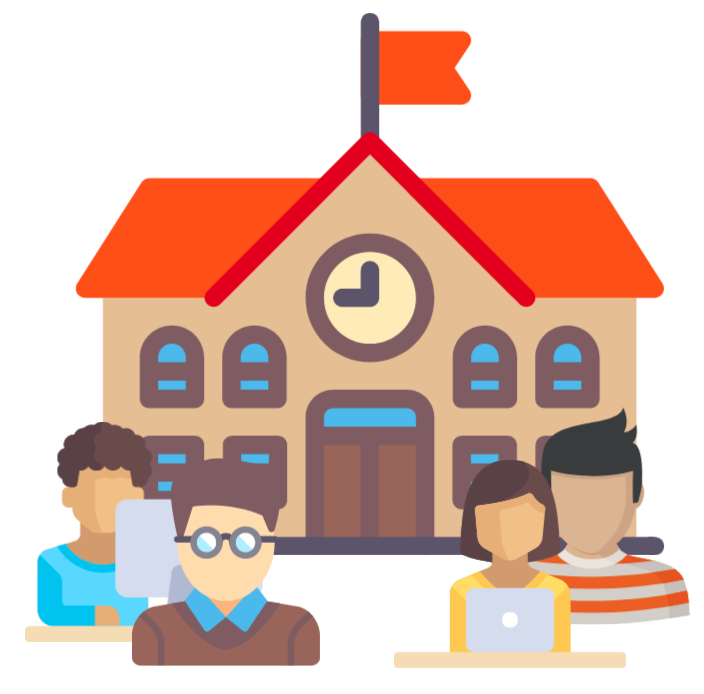
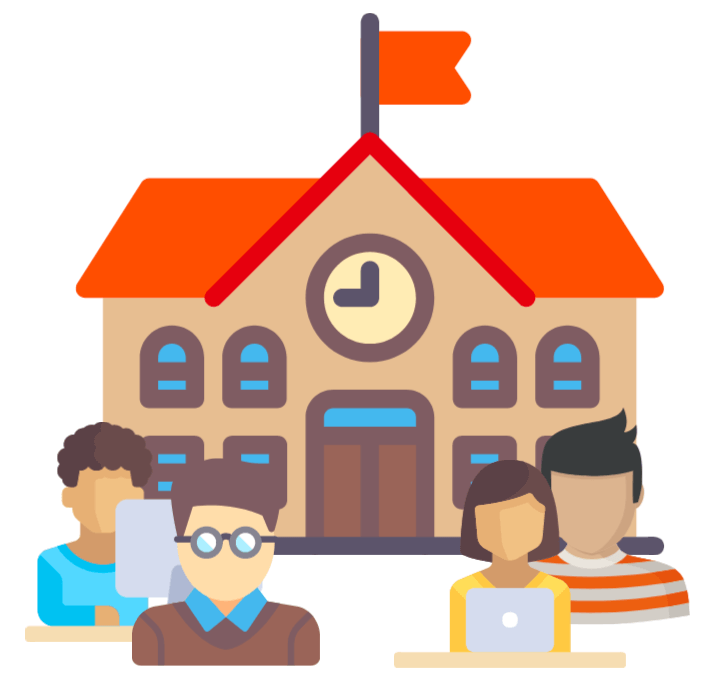
revised image size to improve resolution and responsiveness

Changed region(s): [[0.5938, 0.2421, 0.9375, 0.4539], [0.0938, 0.2421, 0.4688, 0.4539], [0.5312, 0.0303, 0.6875, 0.1513]]

diff --git a/app/assets/stylesheets/groups.scss b/app/assets/stylesheets/groups.scss
@@ -25,9 +25,19 @@
   min-width: 100%;
 }
 
-#group-image {
+#group-image {  
   min-width: 100%;
-  min-height: 100%;
+  height: 100%;
+}
+
+img#group-image.img-height {
+  height: 250px;
+  width: 100%;
+}
+
+#img-holder {
+  height: 250px;
+  text-align: center;
 }
 
 div.card.groups {  
@@ -39,7 +49,7 @@ div.card.groups {
 }
 
 #edit-img {
-  box-shadow: rgba(0, 0, 0, 0.12) 5px 5px 5px;
+  box-shadow: 0 3px 3px 0 rgba(0, 0, 0, 0.14), 0 1px 7px 0 rgba(0, 0, 0, 0.12), 0 3px 1px -1px rgba(0, 0, 0, 0.2);
   margin: -50px auto 0px 70px;
   border: 1px #eee solid;
 }

diff --git a/app/assets/javascripts/application.js b/app/assets/javascripts/application.js
@@ -87,6 +87,21 @@ $(document).ready(function() {
     });
   })
 
+// New post form on posts/index
+  // $('form#new_post').submit(function(event) {
+    // enter has keyCode = 13, change it if you want to use another button
+    // event.preventDefault()
+    // var info = $('input#post_body.validate.valid').val()
+    // $.ajax({
+    //   type: "POST",
+    //   url: '/posts',
+    //   data: info,
+    //   success: success,
+    //   error: debugger,
+      // dataType: dataType
+    // });
+    
+  // });
 
 
   // if ($('#wrapper').hasClass('toggled')){

diff --git a/app/assets/stylesheets/buttons.scss b/app/assets/stylesheets/buttons.scss
@@ -18,3 +18,7 @@ i.material-icons.left {
   line-height: 1.5rem;
   line-height: 18px;
 }
+
+.file-field > button.btn {
+  height: inherit !important;
+}

diff --git a/app/assets/stylesheets/application.scss b/app/assets/stylesheets/application.scss
@@ -35,6 +35,7 @@ body, h1, h2, h3, h4, h5 {
 
 body {
   height: 100vh !important;
+  background-color: #f7f9fa !important;
 }
 
 h3 > a, {

diff --git a/app/assets/stylesheets/posts.scss b/app/assets/stylesheets/posts.scss
@@ -37,7 +37,6 @@
 
 #feed-header, #side-feed-header {
   text-align: center;
-  font-weight: bolder;
   margin-top: 20px;
 }
 

diff --git a/app/controllers/posts_controller.rb b/app/controllers/posts_controller.rb
@@ -9,16 +9,17 @@ def search
     @event = Event.search(params[:search])
     @post = Post.search(params[:search])
     @group = Group.search(params[:search])
-  else
-    @event = Event.all
-    @post = Post.all
-    @group = Group.all
+  # else
+  #   @event = Event.all
+  #   @post = Post.all
+  #   @group = Group.all
   end
 end
 
 def index 
   @events = Event.all.order("created_at DESC")
   @post = Post.all.order("created_at DESC")
+  @new_post = current_group.posts.build
 end
 
 def show
@@ -29,7 +30,7 @@ end
 
 def new
   # without devise
-  # @post = Post.new  
+  # @post = Post.new
   @post = current_group.posts.build
 end
 
